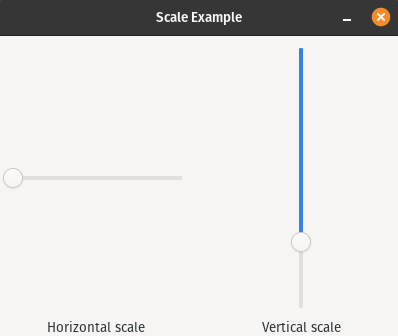
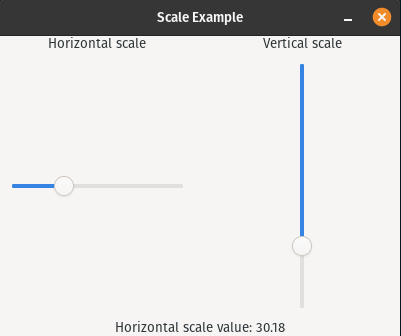
Modifications according to the suggestions.

diff --git a/examples/scale/main.rs b/examples/scale/main.rs
@@ -1,18 +1,11 @@
+use glib::clone;
+use gtk::glib;
 use gtk::prelude::*;
-use gtk::{  Adjustment, 
-            Application, 
-            ApplicationWindow, 
-            Grid, 
-            Label, 
-            Orientation, 
-            Scale
-        };
+use gtk::{Adjustment, Application, ApplicationWindow, Grid, Label, Orientation, Scale};
 
 fn main() {
-    let application = Application::new(
-        Some("com.github.gtk-rs.examples.builder_pattern"),
-        Default::default(),
-    );
+    let application =
+        Application::new(Some("com.github.gtk-rs.examples.scale"), Default::default());
     application.connect_activate(build_ui);
     application.run();
 }
@@ -27,82 +20,66 @@ fn build_ui(application: &Application) {
         .default_height(300)
         .build();
 
+    // A label to update the current value of the last adjusted scale
+    let update_label = Label::new(None);
+
     // We need 2 adjustments to describe the scales
     let horizontal_adjustment = Adjustment::new(
-        0.0, // The value where the handle will be at the initial state
-        0.0, // Lower bound
+        0.0,   // The value where the handle will be at the initial state
+        0.0,   // Lower bound
         100.0, // Upper bound
-        0.0, // Step increment, keep it 0 if you don't want it to be operated by arrow keys
-        0.0, // Page increment
-        0.0 // Page size
+        0.0,   // Step increment, keep it 0 if you don't want it to be operated by arrow keys
+        0.0,   // Page increment
+        0.0,   // Page size
     );
 
     let vertical_adjustment = Adjustment::new(
-        75.0,// The value where the handle will be at the initial state
-        0.0, // Lower bound
+        75.0,  // The value where the handle will be at the initial state
+        0.0,   // Lower bound
         100.0, // Upper bound
-        5.0, // Step increment, use arrow keys to see the effect
-        0.0, // Page increment
-        0.0 // Page size
+        5.0,   // Step increment, use arrow keys to see the effect
+        0.0,   // Page increment
+        0.0,   // Page size
     );
 
     // Initiate the horizontal scale with horizontal orientation and the horizontal adjustment
-    let horizontal_scale = Scale::new(
-        Orientation::Horizontal, 
-        Some(&horizontal_adjustment)
-    );
+    let horizontal_scale = Scale::new(Orientation::Horizontal, Some(&horizontal_adjustment));
 
     // Now if we want to take actions with the changed values of the scale, we'll have to implement a signal
-    horizontal_scale.connect_local(
-            "value-changed", 
-            false, 
-            move |args| {
-            let slider = args[0]
-                .get::<Scale>()
-                .expect("The value needs to be of type `Scale`.");
+    horizontal_scale.connect_value_changed(clone!(@weak update_label => move |slider| {
+        update_label.set_text(&format!("Horizontal scale value: {:.2}", slider.value()));
+    }));
 
-            println!("Horizontal scale value: {:?}", slider.value());
-            None
-        })
-        .expect("Could not connect to signal.");
-
-    // For the vertical scale let's use the builder.
+    // Now for the vertical scale let's use the builder
     let vertical_scale = Scale::builder()
         .orientation(Orientation::Vertical)
         .adjustment(&vertical_adjustment)
         .vexpand(true)
         .build();
 
-    // We create a similar signal for the vertical scale too
-    vertical_scale.connect_local(
-            "value-changed", 
-            false, 
-            move |args| {
-            let slider = args[0]
-                .get::<Scale>()
-                .expect("The value needs to be of type `Scale`.");
+    // To create a similar signal for the vertical scale
+    vertical_scale.connect_value_changed(clone!(@weak update_label => move |slider| {
+        update_label.set_text(&format!("Vertical scale value: {:.2}", slider.value()));
+    }));
 
-            println!("Vertical scale value: {:?}", slider.value());
-            None
-        })
-        .expect("Could not connect to signal.");
-
-    // To arrange everything in a presentable way we can use the grids.
+    // To arrange everything in a presentable way we can use the grids
     let grid = Grid::new();
     grid.set_column_spacing(10);
     grid.set_column_homogeneous(true);
 
-    // Now let's put our scales in their places 
-    grid.attach(&horizontal_scale, 0, 0, 1, 1);
-    grid.attach(&vertical_scale, 1, 0, 1, 1);
+    // Now let's put our scales in their places
+    grid.attach(&horizontal_scale, 0, 1, 1, 1);
+    grid.attach(&vertical_scale, 1, 1, 1, 1);
 
-    // We put 2 labels for our scales and put them beneath their respective scales.
+    // We put 2 labels for our scales and put them beneath their respective scales
     let horizontal_label = Label::new(Some("Horizontal scale"));
     let vertical_label = Label::new(Some("Vertical scale"));
-    grid.attach(&horizontal_label, 0, 1, 1, 1);
-    grid.attach(&vertical_label, 1, 1, 1, 1);
+    grid.attach(&horizontal_label, 0, 0, 1, 1);
+    grid.attach(&vertical_label, 1, 0, 1, 1);
+    // Attach the label where we update the latest scale values
+    grid.attach(&update_label, 0, 2, 2, 1);
 
-    // Finally attach the grid to the window and show it.
+    // Finally attach the grid to the window and show it
     window.set_child(Some(&grid));
     window.show();
 }

diff --git a/examples/README.md b/examples/README.md
@@ -22,6 +22,7 @@ Consists of various examples to get familiar with writing GTK 4 applications usi
 - [Grid Packing](./grid_packing)
 - [GtkBuilder example](./gtk_builder/)
 - [ListView: Applications Launcher](./list_view_apps_launcher/)
+- [Scale example](./scale/)
 - [Search Bar](./search_bar/)
 - [TextView](./text_viewer/)
 - [Video Player](./video_player/)

diff --git a/examples/scale/README.md b/examples/scale/README.md
@@ -1,5 +1,5 @@
-# Basics
+# Scale
 
-This example demonstrates how to create `scales` and place them in the `window` using a grid. It also shows how to implement `callbacks`.
+This example demonstrates how to create `gtk::Scale` and place them in the `gtk::Window` using a grid.
 
 ![Screenshot](screenshot.png)
